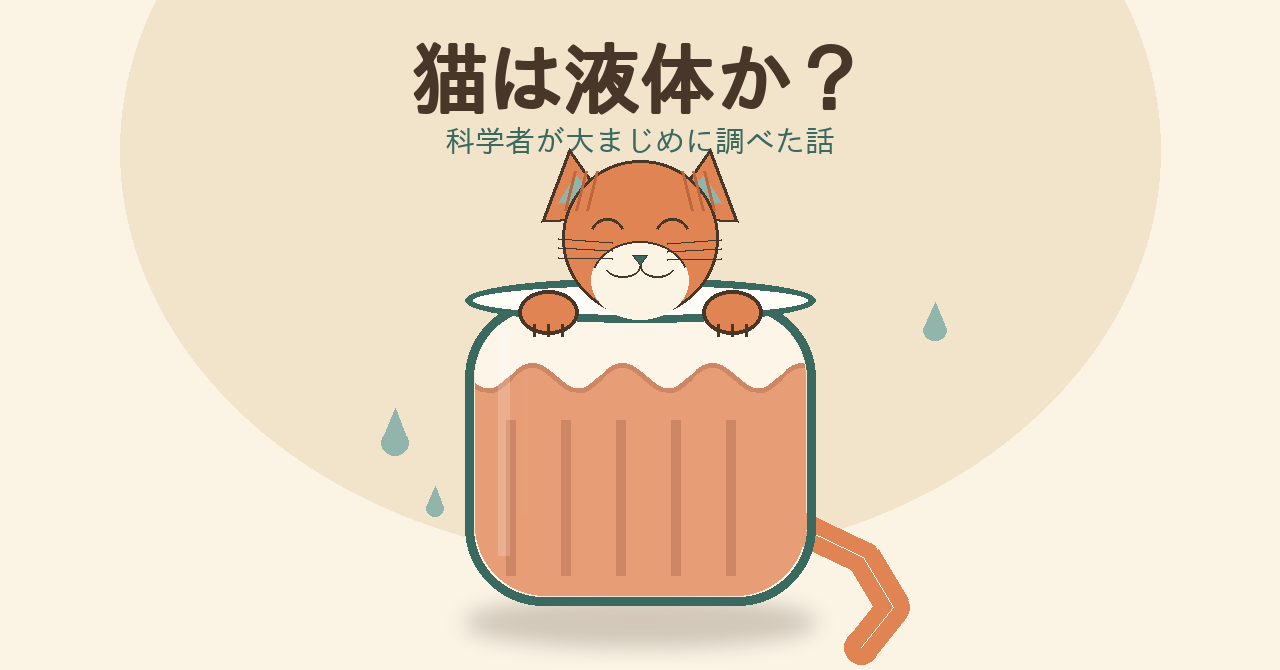
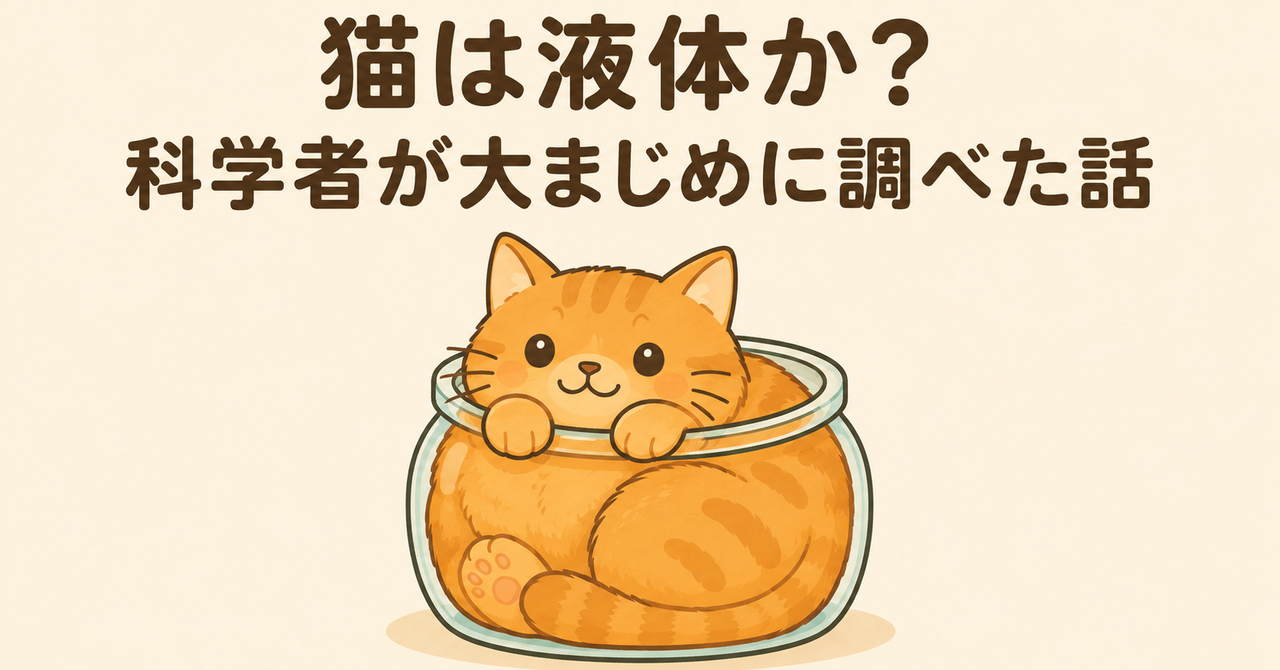
ChatGPT生成イラスト一式に差し替え(カバー・解説イラスト1〜3)
試験外注(ChatGPT画像生成)の成果物を確定し、既存のPIL制作版から
差し替えた。

- カバー: 液状化しすぎていた初稿を修正(毛並み・輪郭を保った指示に
  変更)。タイトル「猫は液体か? 科学者が大まじめに調べた話」を画像内に
  追加。1280×670にクロップ・リサイズ
- 解説イラスト1(デボラ数)・2(鎖骨比較)・3(容器になじむ
  ビフォーアフター): いずれも本文の記述と一致し、独自の事実追加なし。
  日本語ラベルも崩れなく描画されていることを確認。1200×800に
  クロップ・リサイズ(元画像の比率を保持)

全て要素の欠け・文字切れが無いことを確認済み。本文の📎参照ファイル名
とも一致している。プロフィールアイコンは既存のPIL版を維持(オーナー
確認済みのため変更なし)。

ChatGPT外注プロンプト集の進捗表を更新し、試験完了とした。

Claude-Session: https://claude.ai/code/session_01TWidCKxYRSv1cKMf351cv5

Changed region(s): [[0.0938, 0.0, 0.9062, 1.0], [0.7188, 0.4478, 0.75, 0.5075]]

diff --git a/docs/chatgpt-image-prompts-neko-wa-ekitai-ka.md b/docs/chatgpt-image-prompts-neko-wa-ekitai-ka.md
@@ -9,10 +9,12 @@
 | 成果物 | 状態 |
 |---|---|
 | プロフィールアイコン | ✅ 完成・確認済み(オーナー確認OK) |
-| 記事カバー | 🔁 再生成待ち(液状化しすぎの指摘を反映した修正版プロンプトを本ドキュメントに用意) |
-| 解説イラスト1(デボラ数) | ✅ 完成(内容・日本語表記とも問題なし) |
-| 解説イラスト2(鎖骨比較) | ✅ 完成(内容・日本語表記とも問題なし) |
-| 解説イラスト3(容器になじむビフォーアフター) | ⏳ 未作成(生成上限のため) |
+| 記事カバー | ✅ 完成。`covers/neko-wa-ekitai-ka.png` に反映済み(1280×670) |
+| 解説イラスト1(デボラ数) | ✅ 完成。`illustrations/neko-wa-ekitai-ka-01.png` に反映済み(1200×800) |
+| 解説イラスト2(鎖骨比較) | ✅ 完成。`illustrations/neko-wa-ekitai-ka-02.png` に反映済み(1200×800) |
+| 解説イラスト3(容器になじむビフォーアフター) | ✅ 完成。`illustrations/neko-wa-ekitai-ka-03.png` に反映済み(1200×800) |
+
+全成果物完成。イラスト外注(ChatGPT版)の試験は完了とする。
 
 ---
 
